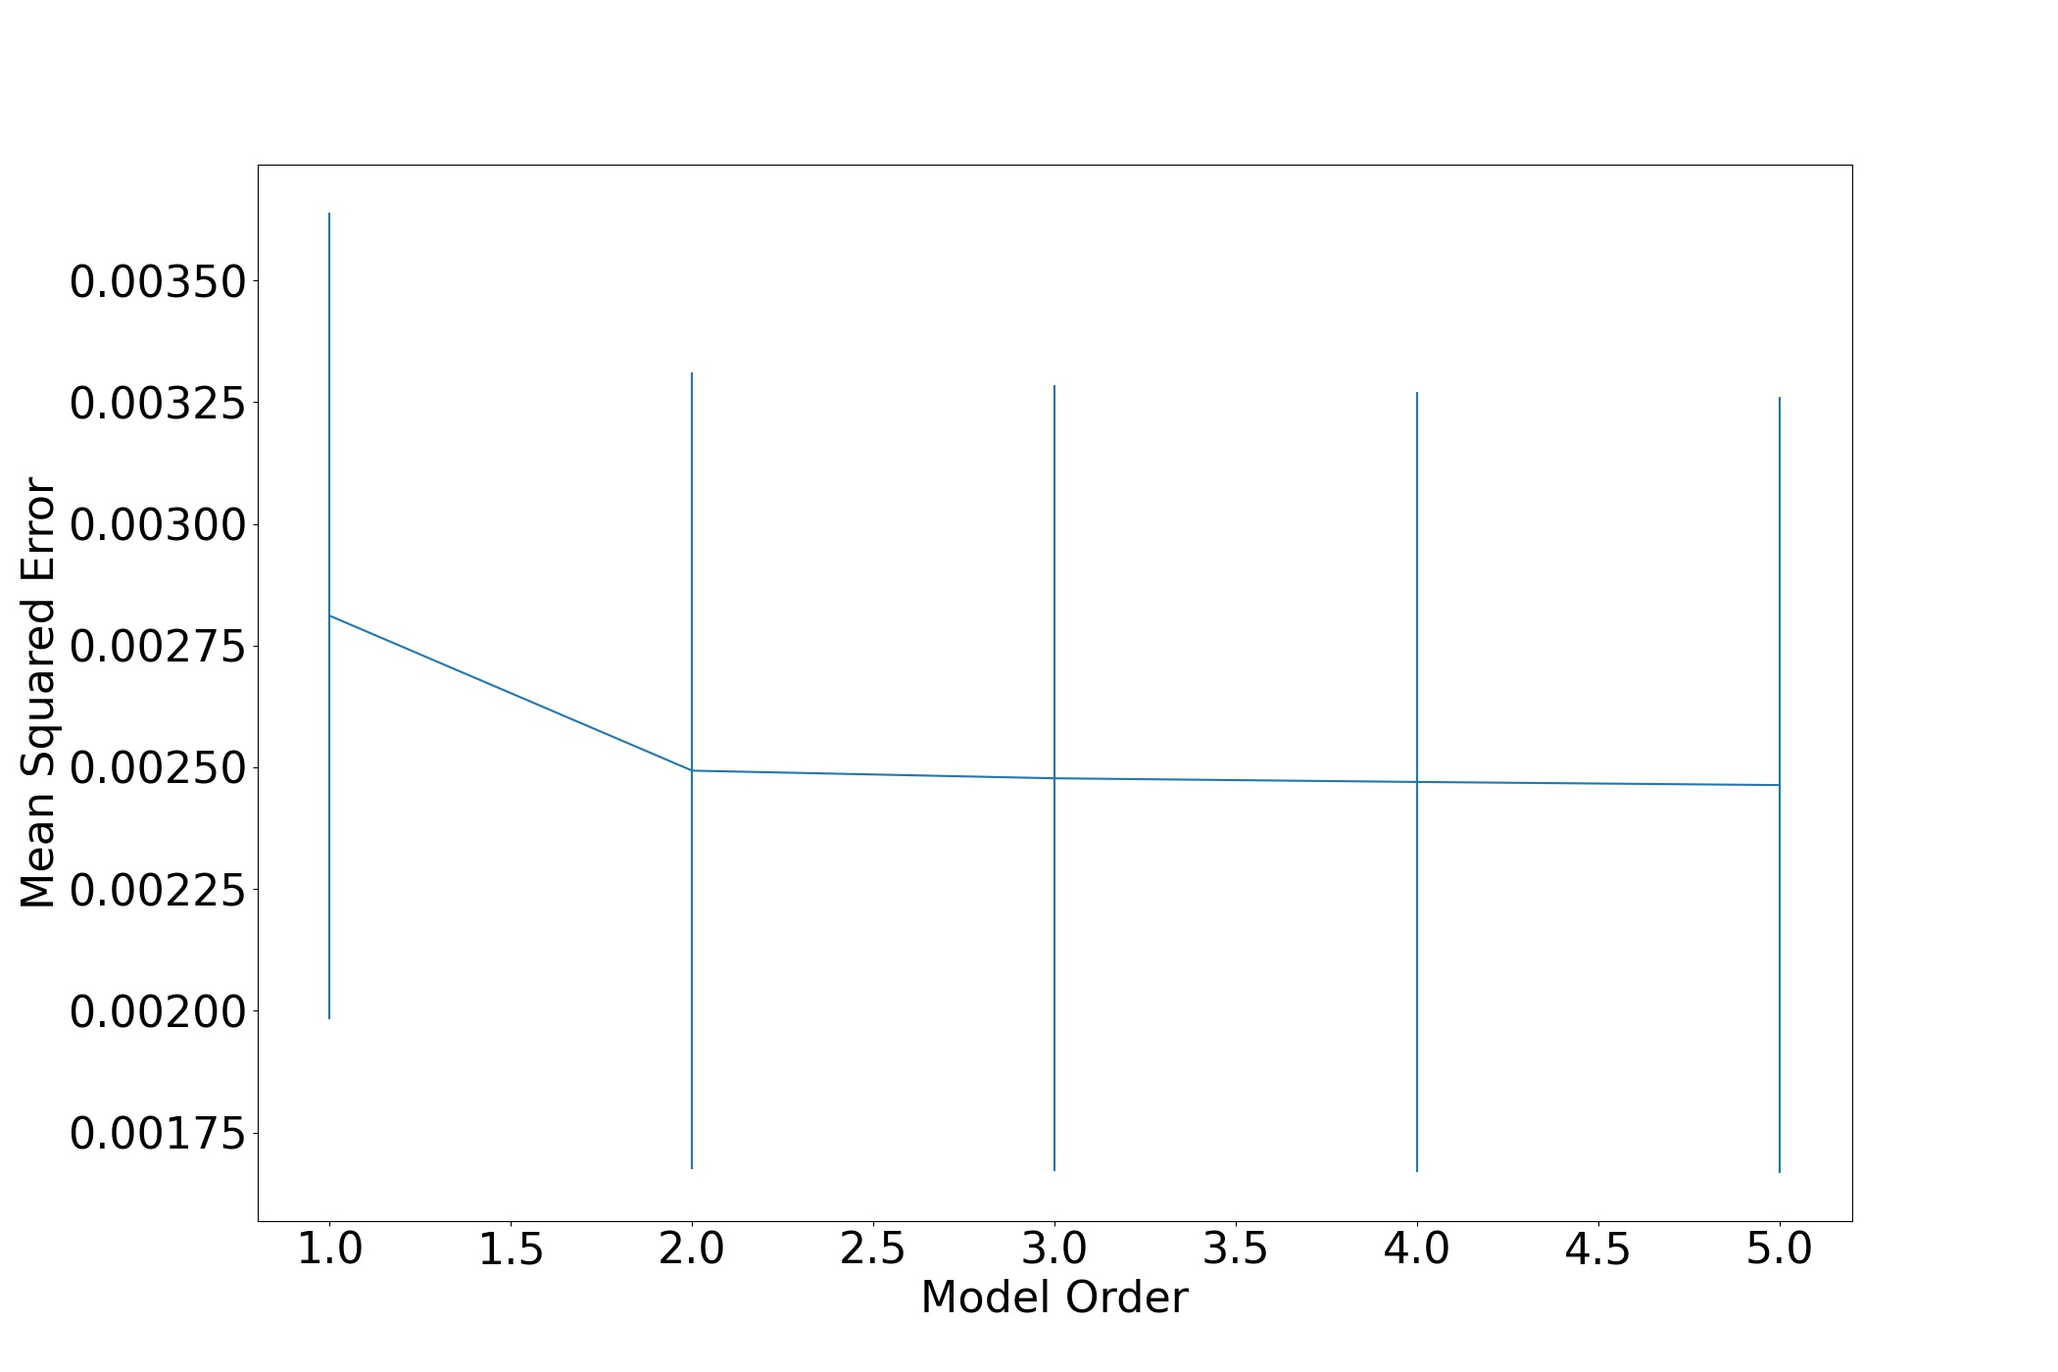
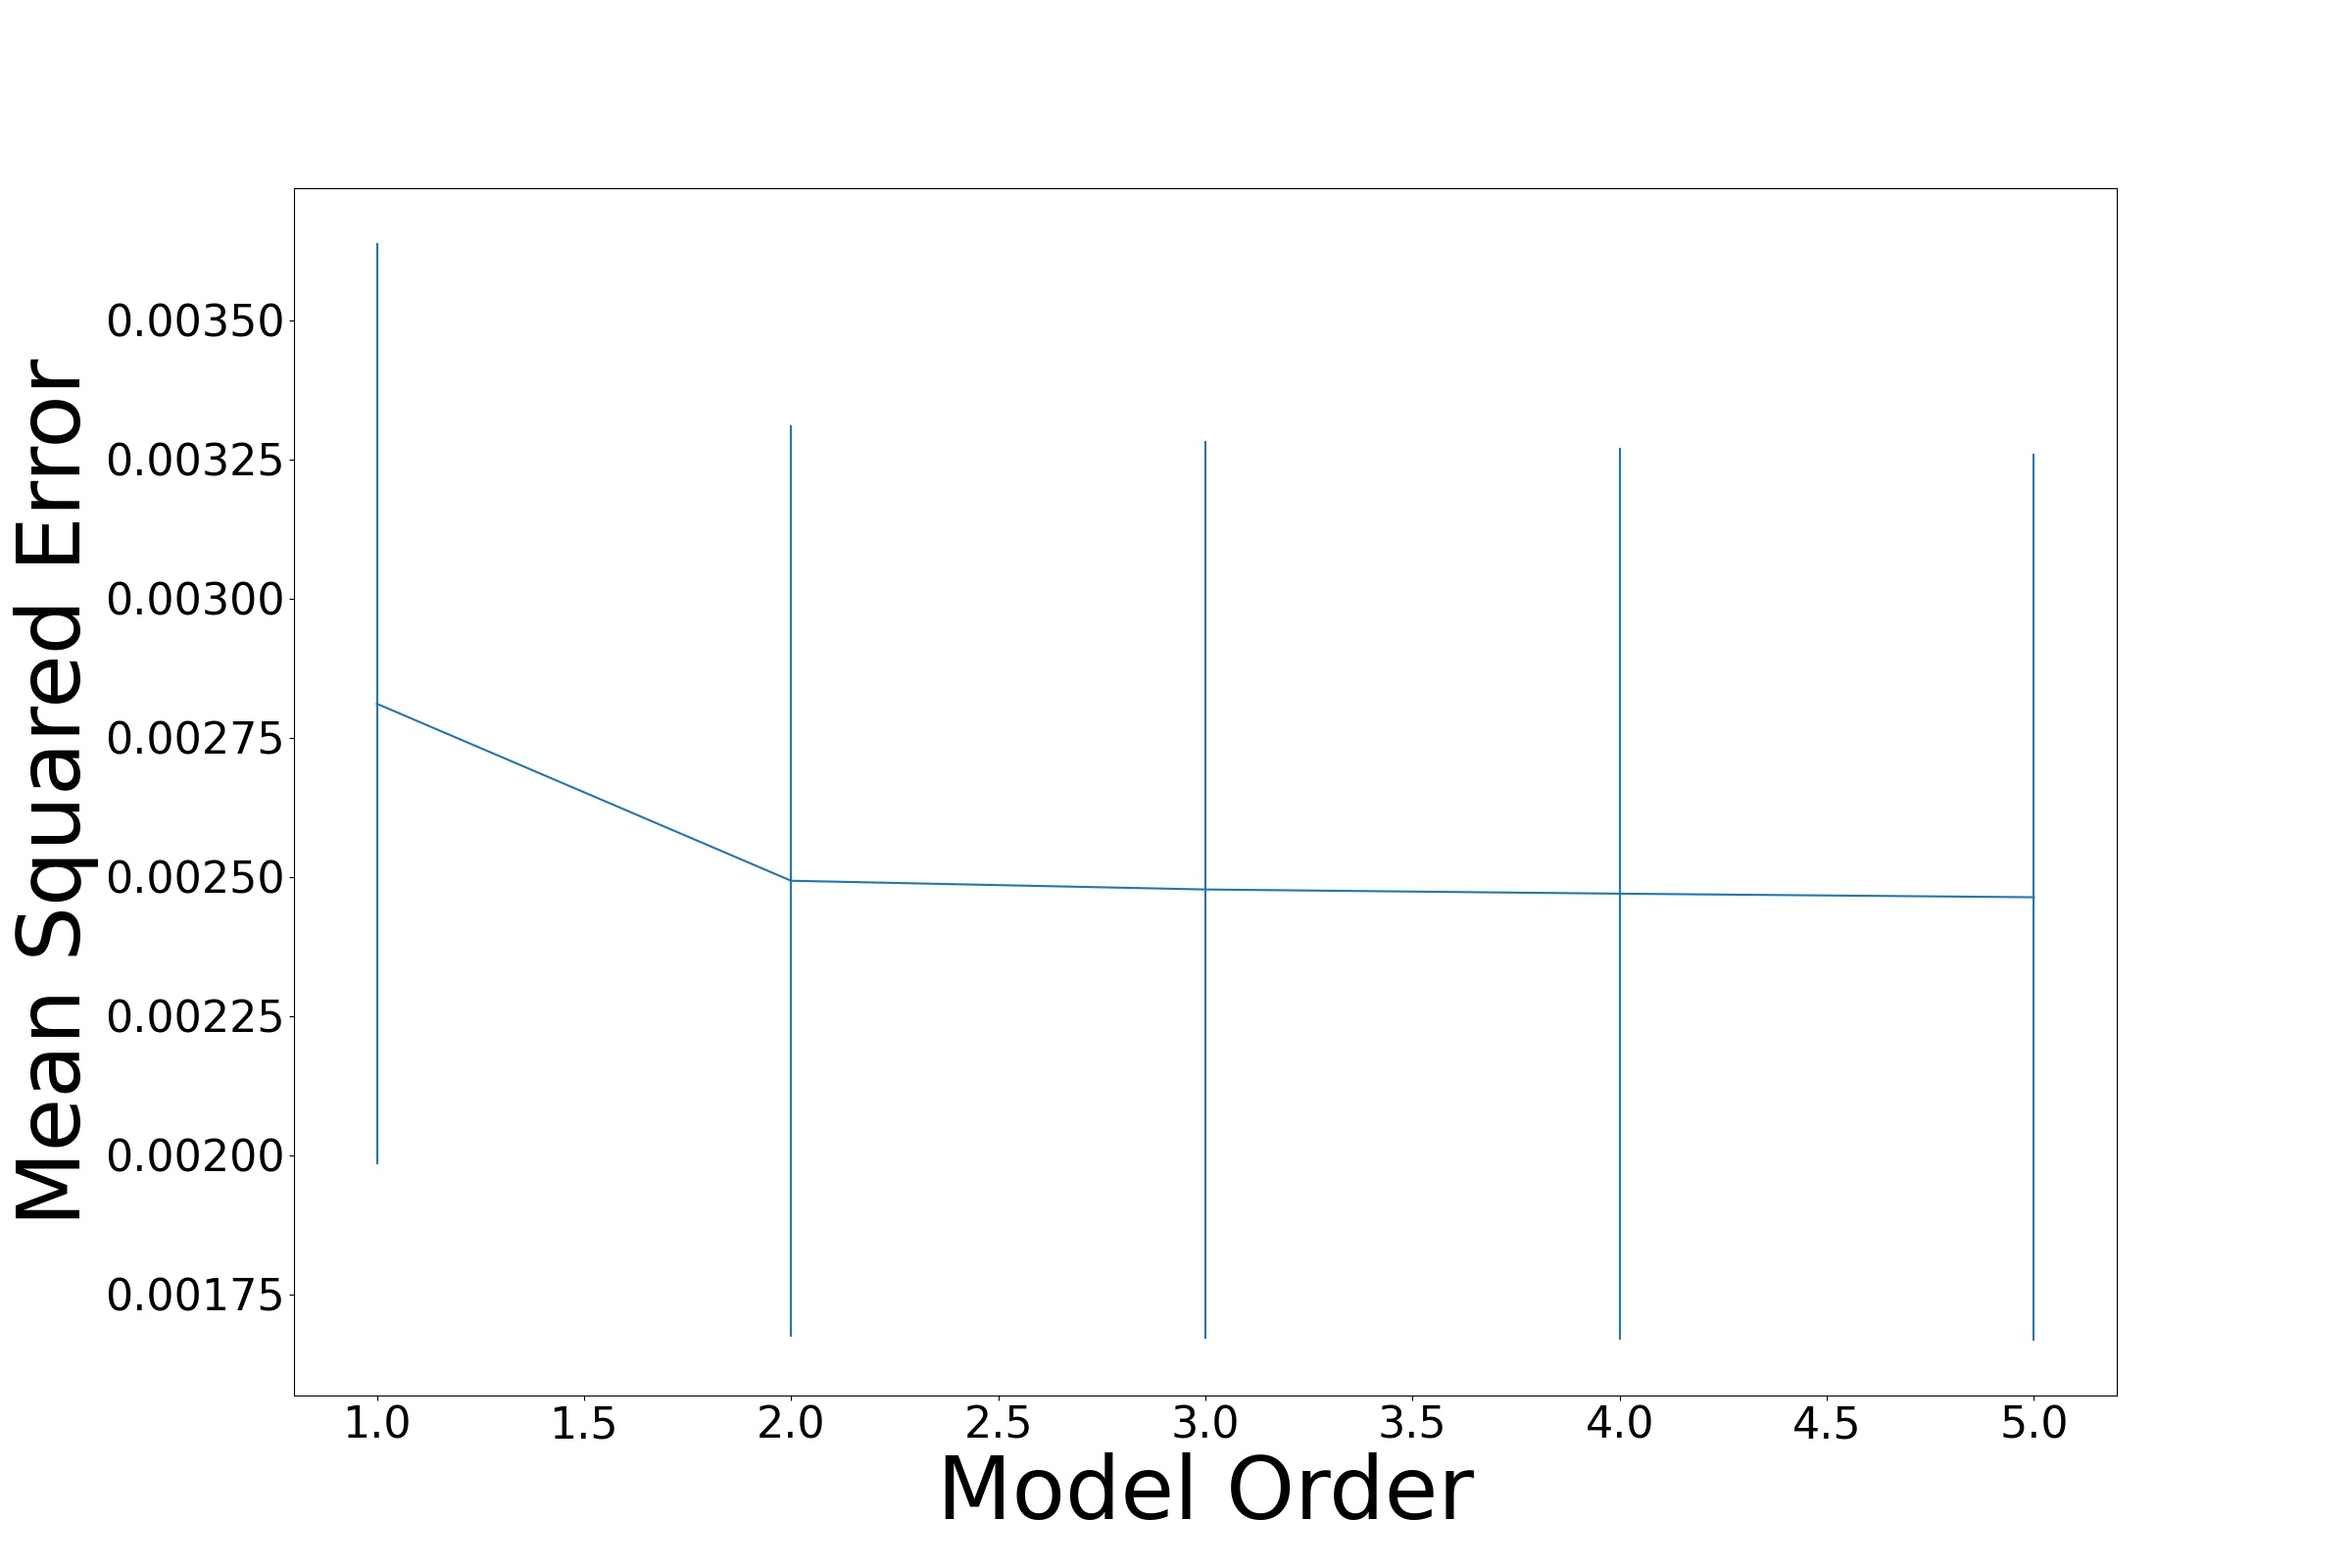
Code Cleanup

diff --git a/cross_validation/cv_functions.py b/cross_validation/cv_functions.py
@@ -7,6 +7,8 @@ from sklearn.neighbors import KNeighborsRegressor
 from sklearn.linear_model import Ridge, Lasso
 
 def order_cross_validation(X, y, order_range, C, model_type):
+    #Cross-validation for determining the optimal polynomial order of the features.
+    #Ridge and Lasso only
     mean_mse=[]; std_mse=[]
     mean_mae=[]; std_mae=[]
     mean_r2 =[]; std_r2 =[]
@@ -42,6 +44,8 @@ def order_cross_validation(X, y, order_range, C, model_type):
     return mean_mse, std_mse, mean_mae, std_mae, mean_r2, std_r2
 
 def penalty_cross_validation(X, y, order, C_range, model_type):
+    #Cross-validation for determining the optimal penalty parameter value (C).
+    #Ridge and Lasso only
     mean_mse=[]; std_mse=[]
     mean_mae=[]; std_mae=[]
     mean_r2 =[]; std_r2 =[]
@@ -77,6 +81,8 @@ def penalty_cross_validation(X, y, order, C_range, model_type):
     return mean_mse, std_mse, mean_mae, std_mae,  mean_r2, std_r2
 
 def knn_cross_validation(X, y, neighbors_range, weights):
+    #Cross-validation for determining the optimal number of neighbours for KNN.
+    #Can support all of sklearns weighting options.
     mean_mse=[]; std_mse=[]
     mean_mae=[]; std_mae=[]
     mean_r2 =[]; std_r2 =[]
@@ -107,15 +113,19 @@ def knn_cross_validation(X, y, neighbors_range, weights):
 
 def save_plot(filepath, range, title, x_label, mean_mse, std_mse, mean_mae, std_mae, mean_r2, std_r2):
     #Plot Cross-Validation Results
-    fig = plt.figure(figsize=(21,14))
+    #MAE and R^2 subplots were removed as we focused on MSE performance.
+    fig = plt.figure(figsize=(24,16))
     plt.rcParams.update({'font.size': 32})
+    plt.rcParams.update({'axes.labelsize': 64})
 
-    sp1 = fig.add_subplot(111)
-    #sp1.set_title(title)
+    #sp1.set_title(title) #Uncomment to add subplot titles feature
+
+    sp1 = fig.add_subplot(111) #Change to fig.add_subplot(311) to include the other 2 subplots 
     sp1.errorbar(range, mean_mse, yerr=std_mse)
     sp1.set_xlabel(x_label)
     sp1.set_ylabel('Mean Squared Error')
 
+    #Uncomment the below code to view MAE and R^2 performance during CV.
     # sp2 = fig.add_subplot(312)
     # sp2.errorbar(range, mean_mae, yerr=std_mae)
     # sp2.set_xlabel(x_label)

diff --git a/cross_validation/knn_cv.py b/cross_validation/knn_cv.py
@@ -11,9 +11,7 @@ data = sys.argv[1]
 X, y = csv_to_Xy("data/processed_data/processed_data" + data + "_train.csv")
 
 #Choose the range of neighbours you want to use
-#neighbors_range = [1, 2, 3, 4, 5, 6, 7, 8, 9, 10, 11, 12, 13, 14, 15, 16, 17, 18, 19, 20, 21, 22, 23, 24, 25, 26, 27, 28, 29, 31, 32, 33, 34, 35, 36, 37, 38, 39, 40] #1st Round
-neighbors_range = [1, 3, 5, 10, 15, 20, 25, 30, 35, 40, 45, 50, 55, 60, 70, 80, 90, 100] #2nd Round
-
+neighbors_range = [1, 3, 5, 10, 15, 20, 25, 30, 35, 40, 45, 50, 55, 60, 70, 80, 90, 100]
 
 #Perform KNN Cross-Validation using uniform and distance weights 
 mean_mse_uniform, std_mse_uniform, mean_mae_uniform, std_mae_uniform, mean_r2_uniform, std_r2_uniform       = knn_cross_validation(X, y, neighbors_range, 'uniform')
@@ -24,8 +22,8 @@ x_label        = "K"
 title_uniform  = "5-fold Cross Validation, K-Nearest-Neighbours, Uniform Weights"
 title_distance = "5-fold Cross Validation, K-Nearest-Neighbours, Distance Weights"
 
-save_plot("cross_validation/plots/knn_cv_uniform" + data + "_2.jpg", neighbors_range, title_uniform, x_label, mean_mse_uniform, std_mse_uniform, 
+save_plot("cross_validation/plots/knn_cv_uniform_dataset_" + data + ".jpg", neighbors_range, title_uniform, x_label, mean_mse_uniform, std_mse_uniform, 
 mean_mae_uniform, std_mae_uniform, mean_r2_uniform, std_r2_uniform)
-save_plot("cross_validation/plots/knn_cv_distance" + data + "_2.jpg", neighbors_range, title_distance, x_label, mean_mse_distance, std_mse_distance, 
+save_plot("cross_validation/plots/knn_cv_distance_dataset_" + data + ".jpg", neighbors_range, title_distance, x_label, mean_mse_distance, std_mse_distance, 
 mean_mae_distance, std_mae_distance, mean_r2_distance, std_r2_distance)
 print("Plots saved!")

diff --git a/cross_validation/ridge_cv.py b/cross_validation/ridge_cv.py
@@ -4,7 +4,7 @@ from cv_functions import order_cross_validation, penalty_cross_validation, save_
 sys.path.insert(0, './data')
 from data_functions import csv_to_Xy
 
-#Receive desired dataset from user
+#Receive desired dataset and optional settings from user
 data = sys.argv[1]
 try:
     order = int(sys.argv[2])
@@ -19,8 +19,7 @@ except:
 X, y = csv_to_Xy("data/processed_data/processed_data" + data + "_train.csv")
 
 #Cross Validation for model order selection
-#order_range = [1, 2, 3, 4, 5, 6, 7, 8, 9, 10] #Dataset 5
-order_range = [1, 2, 3, 4, 5] #, 6, 7, 8, 9, 10] #Dataset 2
+order_range = [1, 2, 3, 4, 5]
 mean_mse_order, std_mse_order, mean_mae_order, std_mae_order, mean_r2_order, std_r2_order = order_cross_validation(X, y, order_range, c, "ridge")
 
 #Plot Cross-Validation Results
@@ -30,10 +29,7 @@ save_plot("cross_validation/plots/ridge_cv_order" + data + "_2.jpg", order_range
 mean_mae_order, std_mae_order, mean_r2_order, std_r2_order)
 
 #Cross Validation for C value selection
-#C_range = [ 1, 5, 10, 15, 20, 25, 30, 40, 45, 46, 47, 48, 49, 50, 51, 52, 53, 54, 55, 60, 70, 80, 90, 100] # Dataset 5
-#C_range = [ 1, 2, 3, 4, 5, 6, 7, 8, 9, 10, 15, 20] # Dataset 2
-C_range = [0.1, 0.5, 1, 5, 10, 15, 20, 30, 40, 50, 60, 70, 80, 90, 100] # Dataset 5 Round 2
-#C_range = [ 1, 2, 3, 4, 5, 6, 7, 8, 9, 10, 15, 20] # Dataset 2 Round 2
+C_range = [0.1, 0.5, 1, 5, 10, 15, 20, 30, 40, 50, 60, 70, 80, 90, 100]
 mean_mse_C, std_mse_C, mean_mae_C, std_mae_C, mean_r2_C, std_r2_C = penalty_cross_validation(X, y, order, C_range, "ridge")
 
 #Plot Cross-Validation Results

diff --git a/cross_validation/lasso_cv.py b/cross_validation/lasso_cv.py
@@ -4,7 +4,7 @@ from cv_functions import order_cross_validation, penalty_cross_validation, save_
 sys.path.insert(0, './data')
 from data_functions import csv_to_Xy
 
-#Receive desired dataset from user
+#Receive desired dataset and optional settings from user
 data = sys.argv[1]
 try:
     order = int(sys.argv[2])
@@ -19,8 +19,7 @@ except:
 X, y = csv_to_Xy("data/processed_data/processed_data" + data + "_train.csv")
 
 #Cross Validation for model order selection
-#order_range = [1, 2, 3, 4, 5, 6, 7, 8, 9, 10] # Dataset 5
-order_range = [1, 2, 3, 4, 5] # Dataset 2
+order_range = [1, 2, 3, 4, 5]
 mean_mse_order, std_mse_order, mean_mae_order, std_mae_order, mean_r2_order, std_r2_order = order_cross_validation(X, y, order_range, c, "lasso")
 
 #Plot Cross-Validation Results
@@ -30,9 +29,7 @@ save_plot("cross_validation/plots/lasso_cv_order" + data + "_2.jpg", order_range
 mean_mae_order, std_mae_order, mean_r2_order, std_r2_order)
 
 #Cross Validation for C value selection
-#C_range = [50, 75, 100, 125, 150, 175, 200, 225, 250, 275, 300, 500, 750, 1000, 1500, 2000, 5000] # Round 1
-C_range = [1, 5, 10, 50, 100, 200, 500, 1000, 1500, 2000, 5000] # Round 2
-
+C_range = [1, 5, 10, 50, 100, 200, 500, 1000, 1500, 2000, 5000]
 mean_mse_C, std_mse_C, mean_mae_C, std_mae_C, mean_r2_C, std_r2_C = penalty_cross_validation(X, y, order, C_range, "lasso")
 
 #Plot Cross-Validation Results

diff --git a/evaluation/evaluate.py b/evaluation/evaluate.py
@@ -1,3 +1,4 @@
+#Evaluate the performance of our saved models
 import sys
 from sklearn.preprocessing import PolynomialFeatures
 from sklearn.metrics import mean_squared_error, mean_absolute_error, r2_score
@@ -5,6 +6,7 @@ from joblib import load
 sys.path.insert(0, './data')
 import data_functions
 
+#Take in the model, dataset and the required polynomial order of the features (if applicable).
 model = sys.argv[1]
 data = sys.argv[2]
 try:
@@ -12,15 +14,20 @@ try:
 except:
     order = 1
 
-X, y = data_functions.csv_to_Xy("data/processed_data/processed_data" + data + "_test.csv")
+#Convert the dataset into a feature matrix and target vector.
+X, y = data_functions.csv_to_Xy("data/processed_data/processed_data" + data + ".csv")
 
+#Augment the matrix to have the required polynomial order
 Poly = PolynomialFeatures(order)
 X_poly = Poly.fit_transform(X)
 
+#Load the saved model from the models folder
 model = load("models/" + model + "_model" + data + ".joblib")
 
+#Use the saved model to make predictions.
 y_pred = model.predict(X_poly)
 
+#Report how the saved model performs on each metric.
 print("MSE: ", mean_squared_error(y_pred=y_pred,y_true=y))
 print("MAE: ", mean_absolute_error(y_pred=y_pred,y_true=y))
-print("R2 Score", r2_score(y_pred=y_pred,y_true=y))
+print("R2 Score: ", r2_score(y_pred=y_pred,y_true=y))

diff --git a/training/knn_train.py b/training/knn_train.py
@@ -10,20 +10,18 @@ from data_functions import csv_to_Xy
 data = sys.argv[1]
 neighbours = int(sys.argv[2])
 weights = sys.argv[3]
-try:
-    order = int(sys.argv[4])
-except:
-    order = 1
 
 #Taking in Data
 X, y = csv_to_Xy("data/processed_data/processed_data" + data + "_train.csv")
 
-#Increase order of the model
-Poly = PolynomialFeatures(order)
+#KNN doesn't require feature order augmentation.
+#This was added in so that the same code could be used to evaluate all 3 models.
+#The extra constant feature shouldn't affect performance since all points will have the same same value in this dimension (1).
+Poly = PolynomialFeatures(1)
 X_poly = Poly.fit_transform(X)
 
 #Define Model
-model = KNeighborsRegressor(n_neighbors=neighbours,weights=weights)
+model = KNeighborsRegressor(n_neighbors=neighbours,weights=weights,algorithm='brute')
 
 #Train Model
 model.fit(X_poly,y)

diff --git a/training/ridge_train.py b/training/ridge_train.py
@@ -14,15 +14,22 @@ C = int(sys.argv[3])
 #Taking in Data
 X, y = csv_to_Xy("data/processed_data/processed_data" + data + "_train.csv")
 
-#Increase order of the model
+#Select the polynomial order of the features
 Poly = PolynomialFeatures(order)
 X_poly = Poly.fit_transform(X)
 
 #Define Model
-model = Ridge(1/(2*C))
+model = Ridge(1/(2*C),solver='svd')
 
 #Train Model
 model.fit(X_poly, y)
+
+#Useful print statements for investigating features, parameters and biases
+"""
+print(Poly.get_feature_names())
+print("Coefs: ", model.coef_)
+print("Bias: ", model.intercept_)
+"""
 
 #Save Model
 dump(model, 'models/ridge_model' + data + '.joblib')

diff --git a/training/lasso_train.py b/training/lasso_train.py
@@ -14,7 +14,7 @@ C = int(sys.argv[3])
 #Taking in Data
 X, y = csv_to_Xy("data/processed_data/processed_data" + data + "_train.csv")
 
-#Increase order of the model
+#Select the polynomial order of the features
 Poly = PolynomialFeatures(order)
 X_poly = Poly.fit_transform(X)
 
@@ -23,6 +23,13 @@ model = Lasso(1/(2*C))
 
 #Train Model
 model.fit(X_poly, y)
+
+#Useful print statements for investigating features, parameters and biases
+"""
+print(Poly.get_feature_names())
+print("Coefs: ", model.coef_)
+print("Bias: ", model.intercept_)
+"""
 
 #Save Model
 dump(model, 'models/lasso_model' + data + '.joblib')

diff --git a/data/data_functions.py b/data/data_functions.py
@@ -1,7 +1,11 @@
+#Misc. functions for handling the data
 import pandas as pd
 import numpy as np
 
 def csv_to_Xy(file):
+    #Function for converting a CSV file into a feature matrix and target vector.
+    #Target values need to occupy the first column of the CSV file.
+    #Can handle any number of features/CSV columns.
     df  = pd.read_csv(file, parse_dates=True, sep=',')
     y   = df.iloc[:,0]
     X = df.iloc[:,1]

diff --git a/training/dummies_train.py b/training/dummies_train.py
@@ -12,7 +12,7 @@ data = sys.argv[1]
 #Taking in Data
 X, y = csv_to_Xy("data/processed_data/processed_data" + data + "_train.csv")
 
-#Increase order of the model
+#Select the polynomial order of the features
 Poly = PolynomialFeatures(1)
 X_poly = Poly.fit_transform(X)
 
